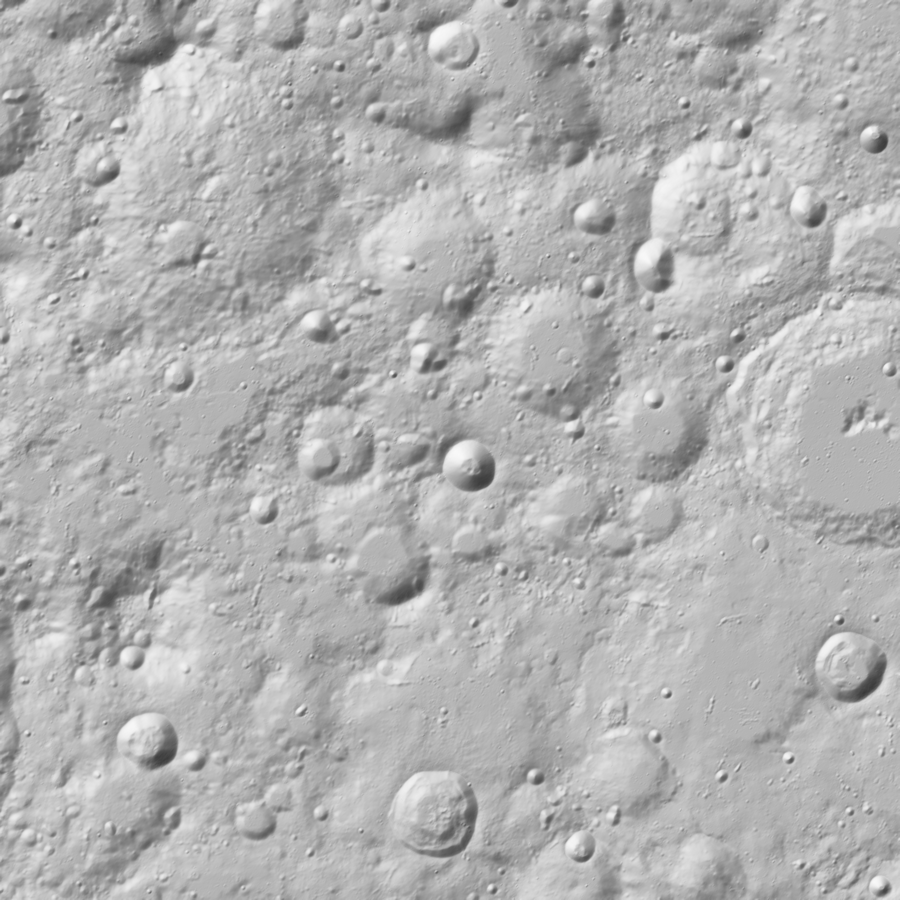
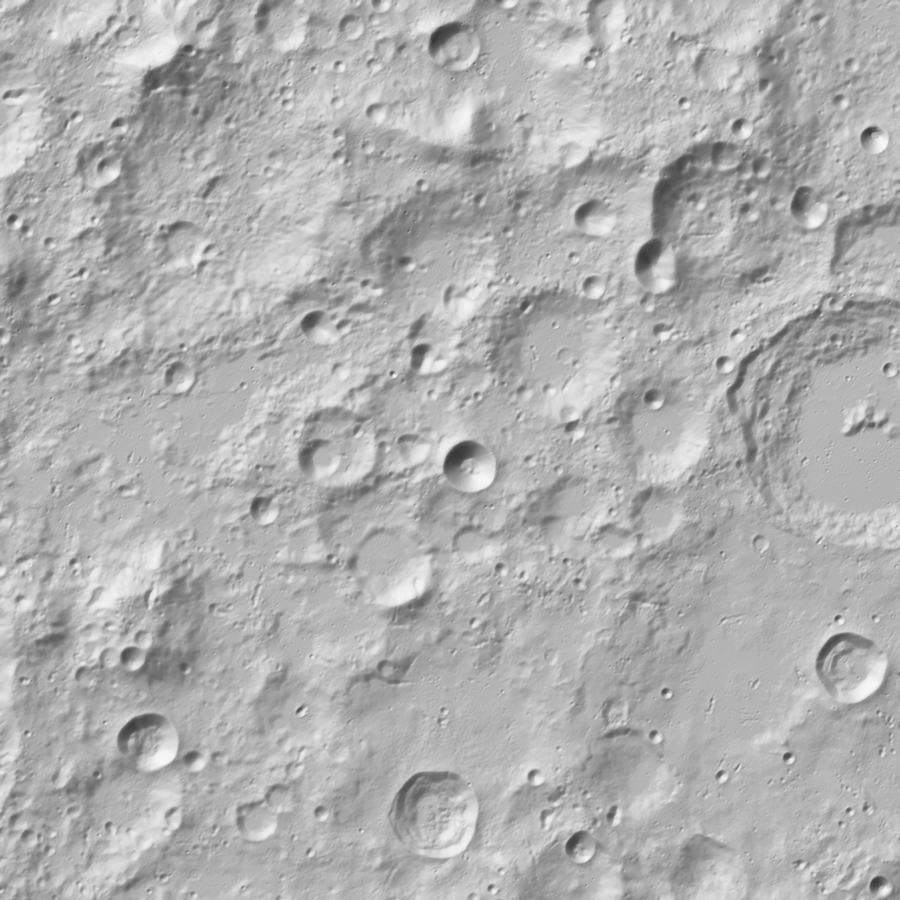
fix(backend): correct hillshade aspect; test frontend terrain assets

diff --git a/backend/tests/test_build_terrain.py b/backend/tests/test_build_terrain.py
@@ -1,0 +1,35 @@
+import json
+
+import numpy as np
+import pytest
+
+from app.config import FRONTEND_TERRAIN_DIR
+from scripts.build_terrain import _hillshade
+
+
+def test_hillshade_lights_northwest_slopes():
+    n = 101
+    yy, xx = np.mgrid[0:n, 0:n]
+    r = np.hypot(xx - 50, yy - 50)
+    h = np.where(r < 30, -1000 * (1 - (r / 30) ** 2), 0.0)
+    hs = _hillshade(h, 100.0)
+    # Lit from az 315 (NW). The NW inner wall faces SE, away from the light (dark);
+    # the SE inner wall faces NW, toward the light (bright).
+    assert hs[35, 35] < 128, hs[35, 35]
+    assert hs[65, 65] > 200, hs[65, 65]
+    assert hs[35, 35] < hs[65, 65]
+
+
+def test_frontend_terrain_assets_consistent():
+    meta_path = FRONTEND_TERRAIN_DIR / "meta.json"
+    if not meta_path.exists():
+        pytest.skip("frontend terrain missing: run scripts/build_terrain.py")
+    meta = json.loads(meta_path.read_text())
+    raw = (FRONTEND_TERRAIN_DIR / "heightmap.bin").read_bytes()
+    n = meta["heightmap_n"]
+    assert len(raw) == n * n * 2
+    values = np.frombuffer(raw, dtype="<u2")
+    assert values.min() == 0
+    assert values.max() == 65535
+    assert meta["h_min_m"] < meta["h_max_m"]
+    assert meta["extent_m"] == 360000

diff --git a/backend/scripts/build_terrain.py b/backend/scripts/build_terrain.py
@@ -45,7 +45,8 @@ def build_curated_horizons(dem80: terrain.Dem) -> None:
 def _hillshade(h: np.ndarray, cell_m: float, az_deg: float = 315.0, alt_deg: float = 45.0) -> np.ndarray:
     gy, gx = np.gradient(h, cell_m)
     slope = np.pi / 2 - np.arctan(np.hypot(gx, gy))
-    aspect = np.arctan2(-gx, gy)
+    # Rows increase southward, so this is the ESRI convention with dz/drow.
+    aspect = np.arctan2(gy, -gx)
     az = np.radians(360.0 - az_deg + 90.0)
     alt = np.radians(alt_deg)
     shaded = np.sin(alt) * np.sin(slope) + np.cos(alt) * np.cos(slope) * np.cos(az - aspect)

diff --git a/backend/tests/test_terrain_real.py b/backend/tests/test_terrain_real.py
@@ -1,4 +1,5 @@
 import numpy as np
+import pytest
 
 from app import terrain as T
 from app.config import DEM_RAW, DEM_RUNTIME
@@ -19,6 +20,7 @@ def test_runtime_dem_matches_raw_scale():
     dem = T.load_dem_npz(DEM_RUNTIME)
     assert dem.scale_m == 240.0 and dem.n == 2533
     assert abs(T.height_at(dem, -89.4667, -136.667) - 1947) < 500
+    assert dem.offset == pytest.approx((3799.5 - 1.0) / 3.0)
 
 
 @requires_dem_runtime
